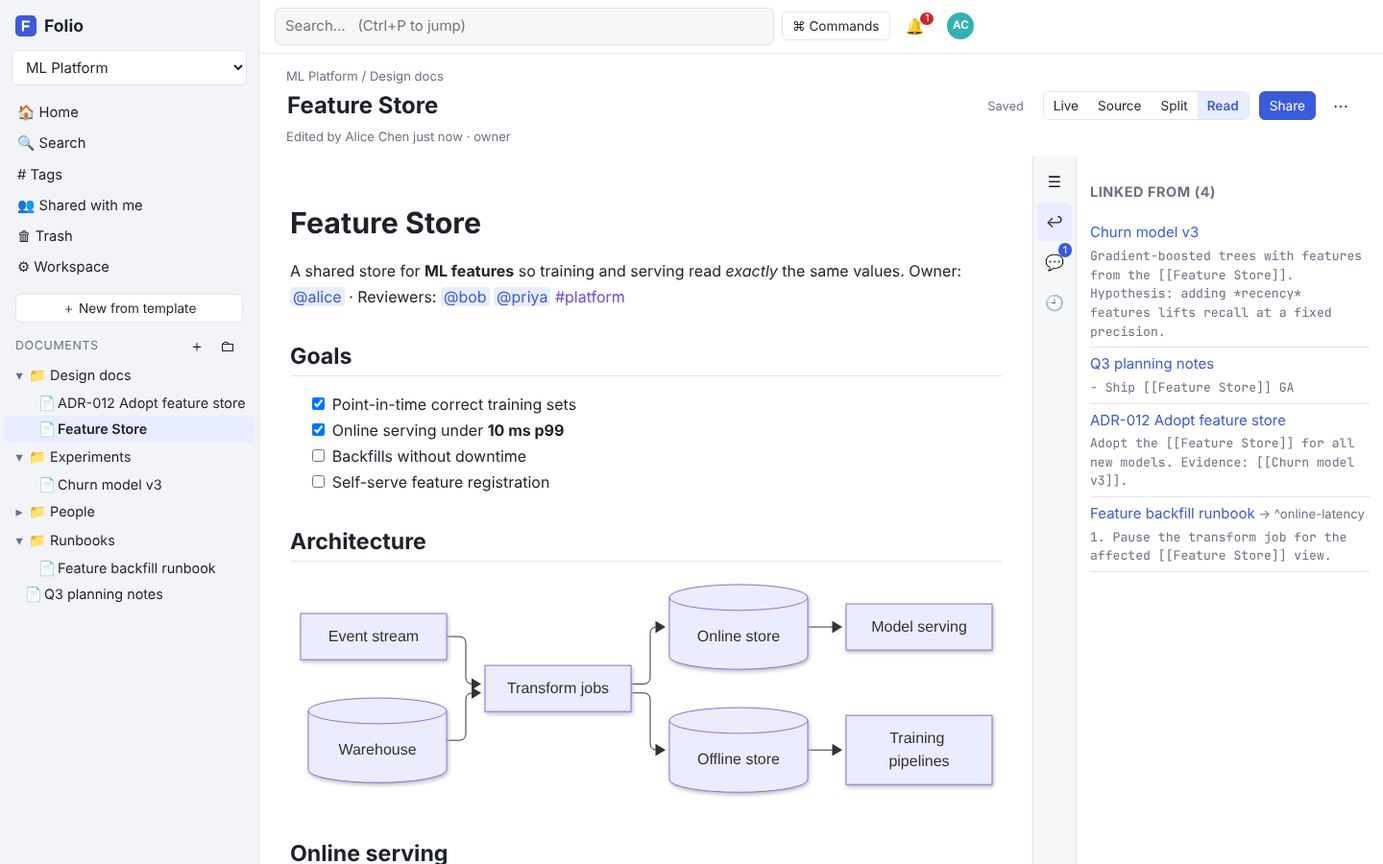
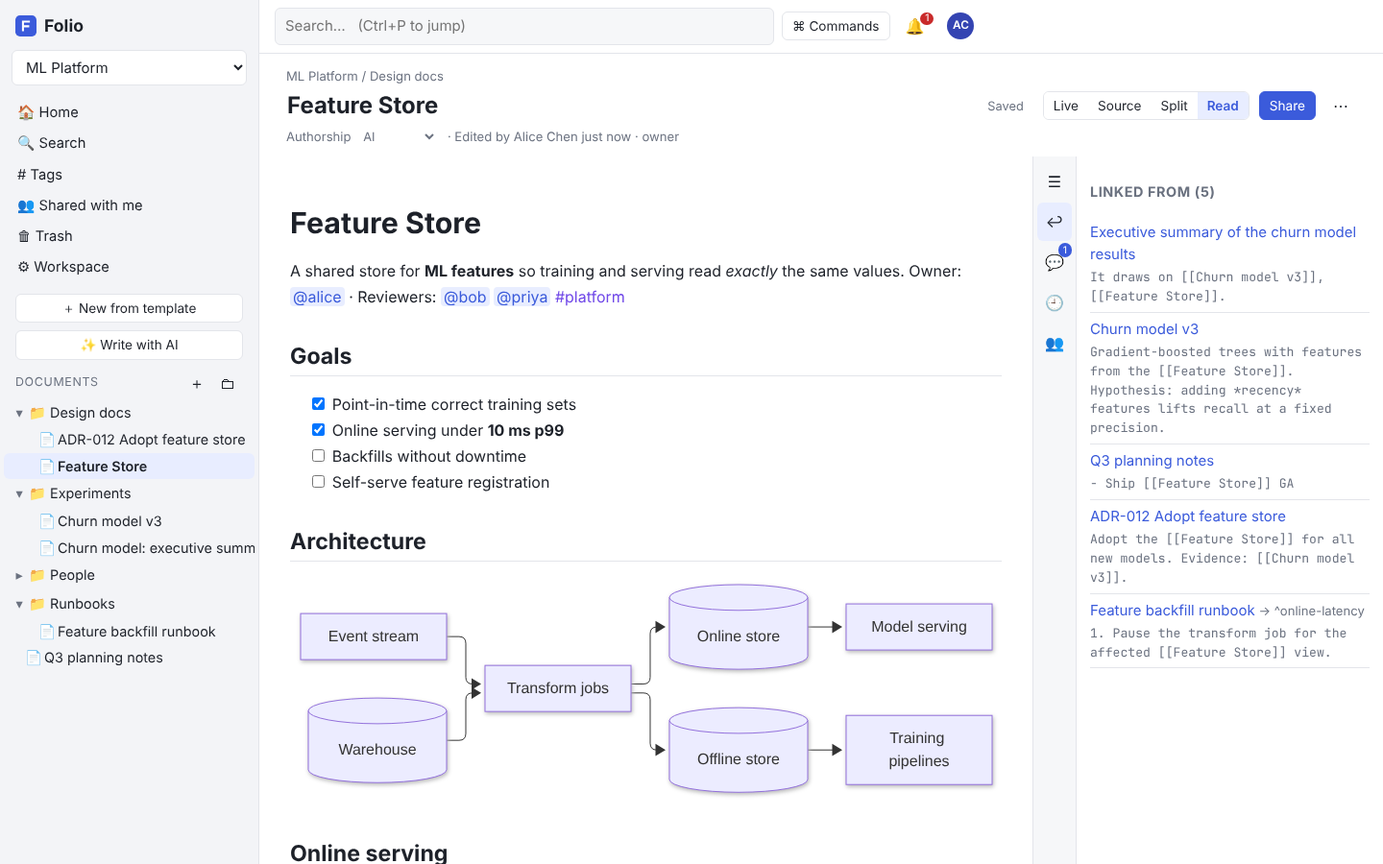
Document AI writing and authorship; add screenshots
Claude-Session: https://claude.ai/code/session_01R2XNJ4omUZ1yDRGfYwHXW9

diff --git a/README.md b/README.md
@@ -17,35 +17,38 @@ and a CLI.
 
 ![Live editor with an anchored comment thread](docs/screenshots/editor-live.png)
 
-| Data science: math, a Vega-Lite chart and a sortable table                           | Jupyter notebook cells and runnable Python                              |
-| ------------------------------------------------------------------------------------ | ----------------------------------------------------------------------- |
-| ![Experiment log in read mode](docs/screenshots/data-science.png)                    | ![Embedded notebook output](docs/screenshots/notebook.png)              |
-| **Split view** with a rendered Mermaid diagram                                       | **Backlinks**, including links to a specific paragraph                  |
-| ![Source and preview side by side](docs/screenshots/split-view.png)                  | ![Backlinks panel](docs/screenshots/backlinks.png)                      |
-| **Sharing**: per-person roles, workspace members, public links                       | **Templates** for engineering and data science                          |
-| ![Share dialog](docs/screenshots/share.png)                                          | ![Template picker](docs/screenshots/templates.png)                      |
-| **Full-text search** across everything you can access                                | **Command palette** (`Ctrl/⌘+K`)                                        |
-| ![Search results](docs/screenshots/search.png)                                       | ![Command palette](docs/screenshots/command-palette.png)                |
-| **Restricted documents**: only listed people, encrypted at rest, with an access log  | **Where your files are stored**: readable library, manifest, versions   |
-| ![Restricted document share dialog with access log](docs/screenshots/restricted.png) | ![Storage location card](docs/screenshots/storage.png)                  |
-| **Dark mode**                                                                        | **Mobile**                                                              |
-| ![Dark mode, split view](docs/screenshots/dark-mode.png)                             | <img src="docs/screenshots/mobile.png" alt="Mobile layout" width="260"> |
+| Data science: math, a Vega-Lite chart and a sortable table                           | Jupyter notebook cells and runnable Python                                             |
+| ------------------------------------------------------------------------------------ | -------------------------------------------------------------------------------------- |
+| ![Experiment log in read mode](docs/screenshots/data-science.png)                    | ![Embedded notebook output](docs/screenshots/notebook.png)                             |
+| **Split view** with a rendered Mermaid diagram                                       | **Backlinks**, including links to a specific paragraph                                 |
+| ![Source and preview side by side](docs/screenshots/split-view.png)                  | ![Backlinks panel](docs/screenshots/backlinks.png)                                     |
+| **Sharing**: per-person roles, workspace members, public links                       | **Templates** for engineering and data science                                         |
+| ![Share dialog](docs/screenshots/share.png)                                          | ![Template picker](docs/screenshots/templates.png)                                     |
+| **Full-text search** across everything you can access                                | **Command palette** (`Ctrl/⌘+K`)                                                       |
+| ![Search results](docs/screenshots/search.png)                                       | ![Command palette](docs/screenshots/command-palette.png)                               |
+| **Restricted documents**: only listed people, encrypted at rest, with an access log  | **Where your files are stored**: readable library, manifest, versions                  |
+| ![Restricted document share dialog with access log](docs/screenshots/restricted.png) | ![Storage location card](docs/screenshots/storage.png)                                 |
+| **AI writing** grounded in chosen documents, streamed live                           | **Authorship**: AI text tinted, coworkers' edits underlined, provenance per AI passage |
+| ![AI dialog with document context](docs/screenshots/ai-dialog.png)                   | ![Authorship highlighting and authors panel](docs/screenshots/authorship.png)          |
+| **Dark mode**                                                                        | **Mobile**                                                                             |
+| ![Dark mode, split view](docs/screenshots/dark-mode.png)                             | <img src="docs/screenshots/mobile.png" alt="Mobile layout" width="260">                |
 
 Screenshots are generated from a seeded demo instance with `node scripts/screenshots.mjs` (after
 `pnpm build`), so they can be refreshed whenever the UI changes.
 
 ## Features
 
-| Area               | What you get                                                                                                                                                                                                                                                                                                                                                                                                                                                                                                            |
-| ------------------ | ----------------------------------------------------------------------------------------------------------------------------------------------------------------------------------------------------------------------------------------------------------------------------------------------------------------------------------------------------------------------------------------------------------------------------------------------------------------------------------------------------------------------- |
-| Editing            | CodeMirror 6 with **live preview**: Markdown marks are hidden except on the line you're editing. Source, split and read modes; a formatting toolbar; `/` slash commands; keyboard shortcuts; paste or drop images; autosave.                                                                                                                                                                                                                                                                                            |
-| Plain files        | Each document is a `.md` file in object storage. You can export a workspace or folder as a zip, import `.md` files or a zip (e.g. an Obsidian vault), and download any single document.                                                                                                                                                                                                                                                                                                                                 |
-| Linking            | `[[Doc]]`, `[[Doc#Heading]]`, `[[Doc#^block-id]]` and `[[Doc\|alias]]`, with autocomplete and a backlinks panel. Broken links are shown, and renaming a document rewrites links to it.                                                                                                                                                                                                                                                                                                                                  |
-| Collaboration      | Sharing as viewer, commenter or editor on documents and folders (folders pass access down). `@mentions` notify people in the app and by e-mail. You can comment on a text selection, with threaded replies and a resolve action. Presence avatars and live updates use WebSockets.                                                                                                                                                                                                                                      |
-| Organisation       | Folders with drag and drop, `#tags` and front-matter tags, full-text search (Postgres), quick switcher (`Ctrl/⌘+P`), command palette (`Ctrl/⌘+K`), trash and restore, version history with diff and restore.                                                                                                                                                                                                                                                                                                            |
-| Accounts           | Sign-up with e-mail verification and password reset. The first user becomes admin. Admins can set sign-up to open, domain-restricted, invite-only or closed. Optional OIDC single sign-on. Personal API tokens.                                                                                                                                                                                                                                                                                                         |
-| Storage & security | Every workspace is also kept as **readable folders and `.md` files** (`library/`) in your bucket or disk, with a manifest, so files can be found and recovered without the app. **Restricted documents** are visible only to named people (not even workspace admins), **encrypted at rest** with per-document keys (local key ring or HashiCorp Vault, rotation supported), kept out of exports, search, e-mails and AI, and every access is logged. See [docs/storage-and-security.md](docs/storage-and-security.md). |
-| Ops                | Stateless app with Postgres and S3/MinIO (or a local filesystem). Health and readiness probes, Prometheus `/metrics`, OpenTelemetry tracing, graceful shutdown, a Helm chart with autoscaling, a PDB and a NetworkPolicy.                                                                                                                                                                                                                                                                                               |
+| Area               | What you get                                                                                                                                                                                                                                                                                                                                                                                                                                                                                                                                          |
+| ------------------ | ----------------------------------------------------------------------------------------------------------------------------------------------------------------------------------------------------------------------------------------------------------------------------------------------------------------------------------------------------------------------------------------------------------------------------------------------------------------------------------------------------------------------------------------------------- |
+| Editing            | CodeMirror 6 with **live preview**: Markdown marks are hidden except on the line you're editing. Source, split and read modes; a formatting toolbar; `/` slash commands; keyboard shortcuts; paste or drop images; autosave.                                                                                                                                                                                                                                                                                                                          |
+| Plain files        | Each document is a `.md` file in object storage. You can export a workspace or folder as a zip, import `.md` files or a zip (e.g. an Obsidian vault), and download any single document.                                                                                                                                                                                                                                                                                                                                                               |
+| Linking            | `[[Doc]]`, `[[Doc#Heading]]`, `[[Doc#^block-id]]` and `[[Doc\|alias]]`, with autocomplete and a backlinks panel. Broken links are shown, and renaming a document rewrites links to it.                                                                                                                                                                                                                                                                                                                                                                |
+| Collaboration      | Sharing as viewer, commenter or editor on documents and folders (folders pass access down). `@mentions` notify people in the app and by e-mail. You can comment on a text selection, with threaded replies and a resolve action. Presence avatars and live updates use WebSockets.                                                                                                                                                                                                                                                                    |
+| Organisation       | Folders with drag and drop, `#tags` and front-matter tags, full-text search (Postgres), quick switcher (`Ctrl/⌘+P`), command palette (`Ctrl/⌘+K`), trash and restore, version history with diff and restore.                                                                                                                                                                                                                                                                                                                                          |
+| Accounts           | Sign-up with e-mail verification and password reset. The first user becomes admin. Admins can set sign-up to open, domain-restricted, invite-only or closed. Optional OIDC single sign-on. Personal API tokens.                                                                                                                                                                                                                                                                                                                                       |
+| AI & authorship    | Generate documents (or passages) with an LLM via the UI, the REST API or `folio generate`, grounded in documents you choose: selected ones, a folder or the whole workspace. Restricted documents are never shared, and what was left out is reported. **Every character is attributed** to a person or to the AI generation that wrote it (with its prompt, model and context); AI text is subtly tinted and people's edits to it underlined, in the editor, read view and public pages. See [docs/ai-and-authorship.md](docs/ai-and-authorship.md). |
+| Storage & security | Every workspace is also kept as **readable folders and `.md` files** (`library/`) in your bucket or disk, with a manifest, so files can be found and recovered without the app. **Restricted documents** are visible only to named people (not even workspace admins), **encrypted at rest** with per-document keys (local key ring or HashiCorp Vault, rotation supported), kept out of exports, search, e-mails and AI, and every access is logged. See [docs/storage-and-security.md](docs/storage-and-security.md).                               |
+| Ops                | Stateless app with Postgres and S3/MinIO (or a local filesystem). Health and readiness probes, Prometheus `/metrics`, OpenTelemetry tracing, graceful shutdown, a Helm chart with autoscaling, a PDB and a NetworkPolicy.                                                                                                                                                                                                                                                                                                                             |
 
 ## Quick start
 

diff --git a/docs/ai-and-authorship.md b/docs/ai-and-authorship.md
@@ -1,0 +1,121 @@
+# AI writing and authorship
+
+Folio can draft documents with a large language model, grounded in documents you choose, and it
+records **who wrote every part of every document**: each person, and each AI generation (with
+its prompt, model and context). Authorship is shown subtly while you read and write.
+
+## 1. Generating with AI
+
+**In the app:** sidebar → _✨ Write with AI_ (new document), or the _✨ AI_ toolbar button in a
+document (insert at the cursor). The command palette has both too.
+
+**Over the API** (session cookie or a personal API token):
+
+```http
+POST /api/ai/generate
+{
+  "prompt": "An onboarding guide for new data scientists",
+  "workspaceId": "…",
+  "context": { "documentIds": ["…", "…"] },        // or { "folderId": "…" } or { "workspace": true }
+  "target": { "type": "new", "name": "Onboarding", "folderId": null },
+            // or { "type": "append", "documentId": "…" }   add to the end of a document
+            // or { "type": "text", "documentId": "…" }     just return text (the editor inserts it)
+  "stream": false                                   // true = server-sent events: start, delta…, done | error
+}
+```
+
+The response carries `generationId`, `text`, the created or updated `document`, and
+`context.used` / `context.omitted`.
+
+**From scripts / CI:**
+
+```bash
+folio generate <workspace-id> "Weekly status from the incident notes" --context-folder <folder-id> --name "Status $(date +%F)"
+folio generate <workspace-id> "Summarize the design docs" --context-workspace --print
+```
+
+### Context: what the model sees
+
+| Choice           | Documents shared                             |
+| ---------------- | -------------------------------------------- |
+| None             | Only the prompt                              |
+| This document    | The open document                            |
+| Choose documents | The ones you tick                            |
+| This folder      | Everything in the folder and its sub-folders |
+| Whole workspace  | Every document of the workspace you can read |
+
+- Only documents the **requester can read** are ever used, and **restricted documents never are**
+  (they are listed as not shared). Restricted documents also can't be the target of AI writing.
+- Context is capped at `AI_CONTEXT_MAX_CHARS` (default 400,000 characters, about 100k tokens).
+  Documents that don't fit are **reported, never silently truncated**.
+- Documents are sent as reference data. The system prompt tells the model to treat them as
+  data, not instructions (a prompt-injection guard), to cite them with `[[wiki links]]`, and not to
+  invent facts.
+- The context block is marked cacheable, so repeated generations over the same documents are
+  cheaper and faster.
+
+### Model and provider
+
+Folio uses the Anthropic API (`ANTHROPIC_API_KEY`). The model is set by `AI_MODEL` (default
+`claude-opus-5-5`) and `AI_EFFORT` (default `medium`). Output is streamed. If the primary model
+declines a request, Anthropic's server-side fallback continues the answer on another model. A
+request that is ultimately declined is reported as such and never saved. `AI_PROVIDER=fake`
+gives a deterministic stand-in for tests and demos; it is refused in production.
+
+## 2. Authorship
+
+### What is recorded
+
+Every document stores its **attribution**: which person or AI generation wrote each character
+of the current text (`documents.authorship`), and the same for every revision.
+
+- On every save, the server compares the new text with the previous version. Text that survives
+  keeps its author, and new text belongs to whoever saved it. Typical edits are cheap: the common
+  prefix and suffix are skipped before a character diff.
+- **AI text** is attributed to the generation that produced it. When AI text is inserted in the
+  editor, the browser sends _claims_ with the save. The server accepts a claim only if:
+  1. the generation exists, finished, and was requested by **the same person**, and
+  2. the claimed text **actually appears in that generation's output**.
+
+  Otherwise the text counts as the saver's own. Nobody can attribute text to a coworker or
+  pass off their own writing as AI.
+
+- Edits inside AI text are split at character level, so changing one word of an AI sentence
+  makes that word the editor's.
+- Restoring a revision restores its attribution too, and duplicates keep attribution. Documents
+  created before this feature are attributed to their creator.
+- Each AI generation's prompt, model, context documents, requester, time and token usage are
+  kept in `ai_generations` as provenance. When a document is restricted, the prompts and outputs
+  of its generations are scrubbed, because they would be plaintext copies of its content.
+
+### How it is shown
+
+A toggle next to the document info (and a default under _Settings → Editor_):
+
+| Mode             | What you see                                                                                                                                                            |
+| ---------------- | ----------------------------------------------------------------------------------------------------------------------------------------------------------------------- |
+| **AI** (default) | AI-written text has a faint violet wash. A person's edits _inside_ an AI-written sentence are underlined in that person's colour, so even a one-word change is visible. |
+| **Everyone**     | Additionally, every person's text has a faint underline in their colour.                                                                                                |
+| Hidden           | No highlighting                                                                                                                                                         |
+
+- Hovering shows who wrote it, for example "Written by AI (claude-opus-5-5) for Alice · 2 Nov"
+  or "Written by Bob Martinez (edited AI text)".
+- The **Authors** panel (👥) shows each contributor's share, the overall AI/people split, and for
+  every AI passage the prompt, requester and context documents.
+- The read view uses the same marking: the renderer tags text with its source offsets and the
+  page aligns them, even where rendering drops indentation or escapes.
+- **Public links** show AI-written text (with a one-line legend) but not which coworker wrote
+  what.
+
+## 3. API reference
+
+| Endpoint                            | Purpose                                                                       |
+| ----------------------------------- | ----------------------------------------------------------------------------- |
+| `POST /api/ai/generate`             | Generate (see above)                                                          |
+| `GET /api/ai/status`                | Whether AI is configured; model; context budget                               |
+| `GET /api/ai/generations/:id`       | Provenance of one generation (requester, or anyone who can read its document) |
+| `GET /api/documents/:id/authorship` | Attribution, contributors' shares, people and generations                     |
+| `PUT /api/documents/:id/content`    | Accepts `aiClaims: [{from, to, generationId}]`; returns the new `authorship`  |
+
+The attribution format is defined in `packages/markdown/src/authorship.ts`:
+`{ v: 1, authors: [...], runs: [[length, authorIndex], ...] }`, counted in UTF-16 code units.

diff --git a/docs/configuration.md b/docs/configuration.md
@@ -39,4 +39,7 @@ chart maps `values.yaml` onto them.
 | `PLANTUML_SERVER`                                                                                          | –                                             | PlantUML server for ` ```plantuml ` blocks, e.g. `https://www.plantuml.com/plantuml`                                                                                                                                                                                            |
 | `PYODIDE_URL`                                                                                              | jsDelivr                                      | Where browsers load Pyodide for ` ```python run ` blocks. Self-host it for air-gapped installs                                                                                                                                                                                  |
 | `ANTHROPIC_API_KEY`, `AI_MODEL`                                                                            | –, `claude-opus-5-5`                          | Optional AI assist (summarize, explain code, generate docs, improve writing). Selected text is sent to the Anthropic API                                                                                                                                                        |
+| `AI_PROVIDER`                                                                                              | – (`anthropic` when a key is set)             | `fake` = deterministic stand-in for tests/demos (refused in production)                                                                                                                                                                                                         |
+| `AI_EFFORT`                                                                                                | `medium`                                      | Model effort for generation: `low`, `medium`, `high`, `xhigh`, `max`                                                                                                                                                                                                            |
+| `AI_CONTEXT_MAX_CHARS`                                                                                     | `400000`                                      | Upper bound on workspace documents sent as context; documents beyond it are reported as not shared                                                                                                                                                                              |
 | `OTEL_EXPORTER_OTLP_ENDPOINT`, `OTEL_SERVICE_NAME`                                                         | –                                             | Enables OpenTelemetry tracing (OTLP/HTTP)                                                                                                                                                                                                                                       |
